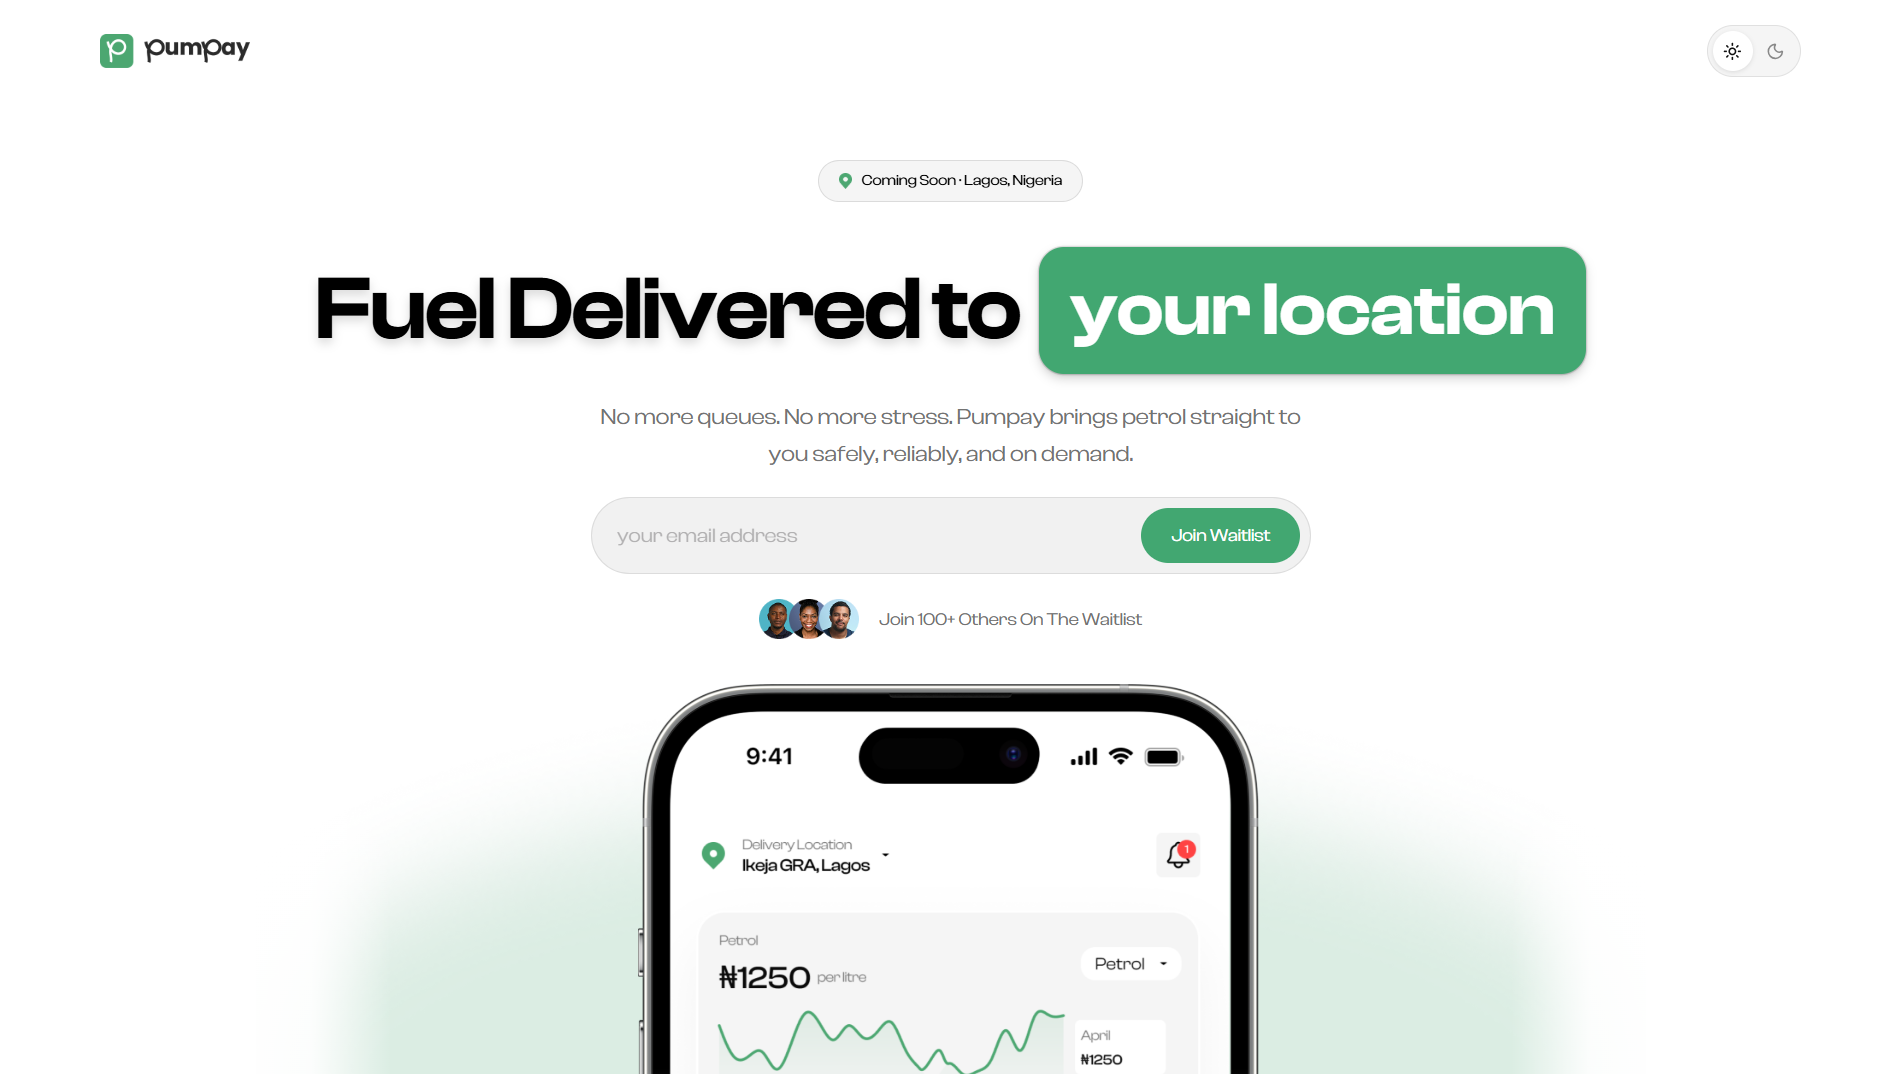
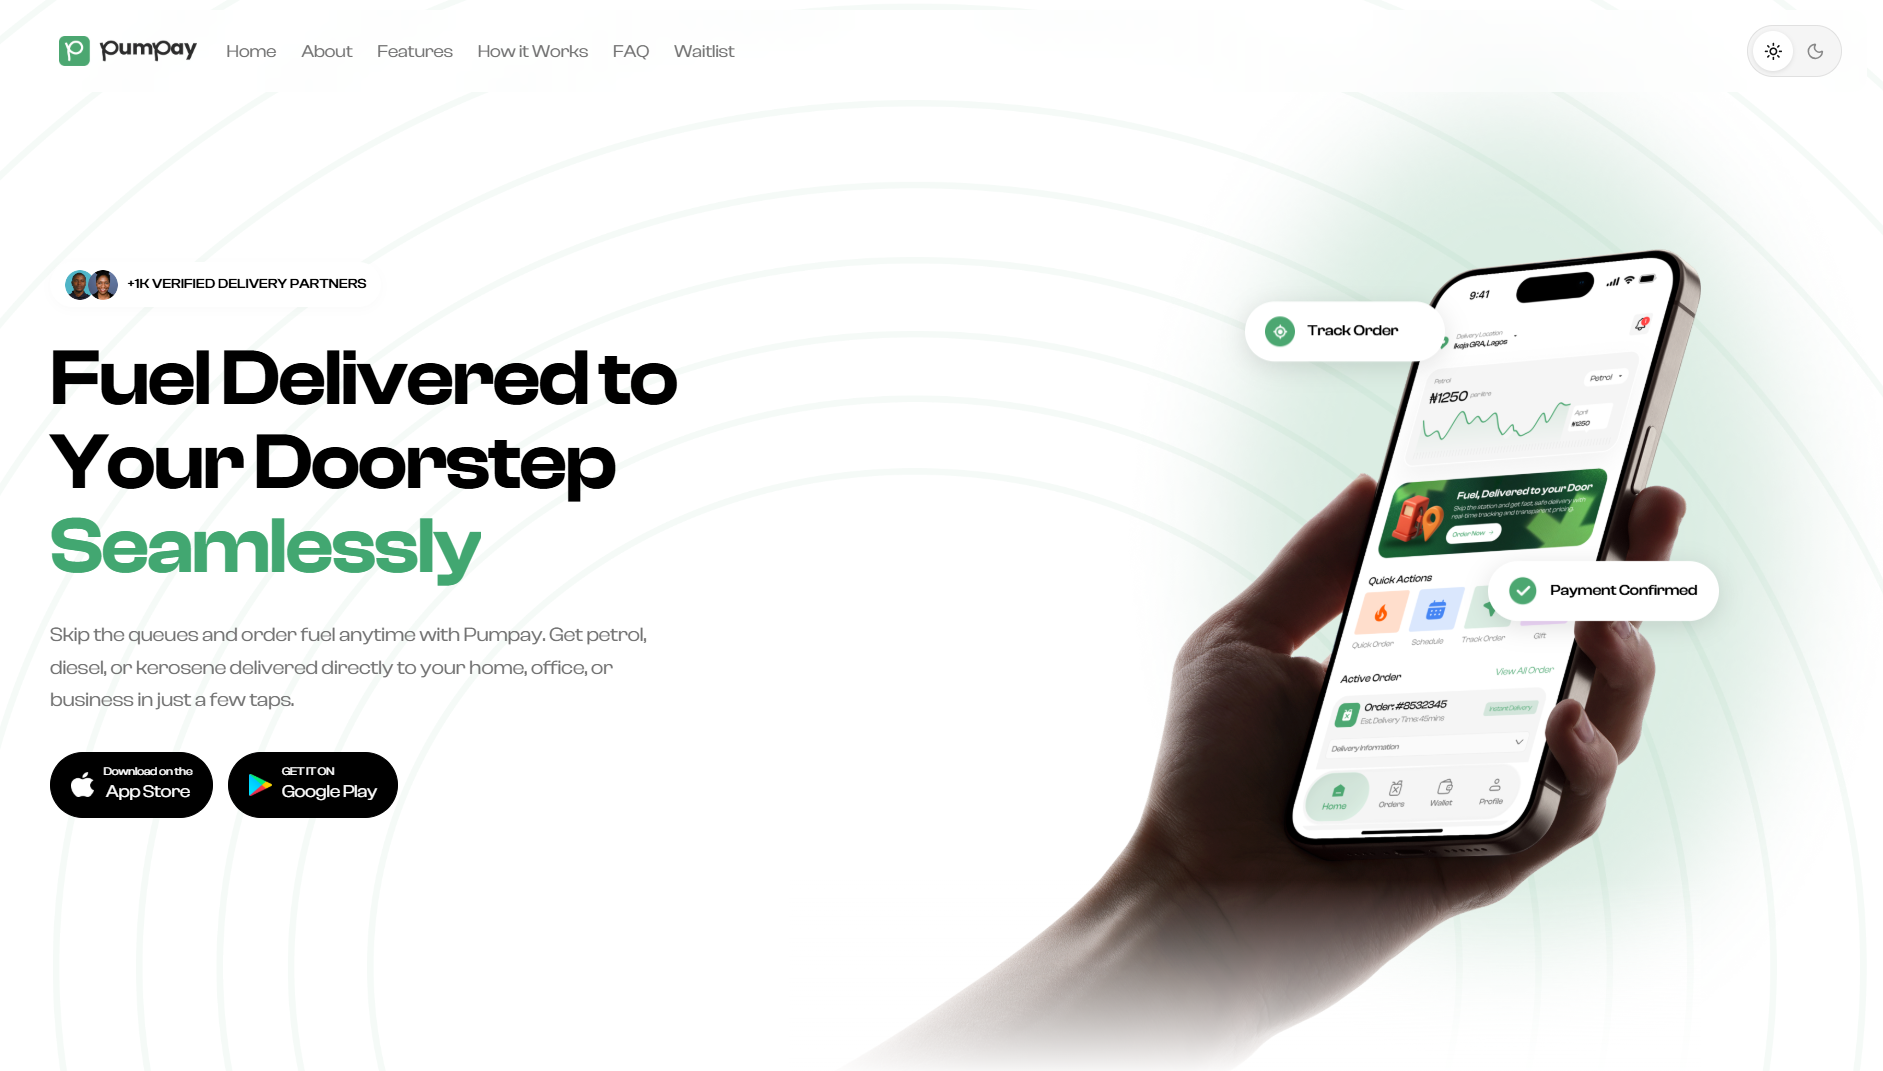
fix: made ui adjustments to the about section and navbar

diff --git a/src/pages/About.jsx b/src/pages/About.jsx
@@ -43,23 +43,23 @@ const About = () => {
             className="px-6 lg:px-24 lg:mt-[-90vh] mt-[-95vh]"
           >
             <h1 className="text-[5rem] text-white font-light md:text-8xl mt-10 md:mt-20 lg:mt-10 lg:text-[10rem] Birthstone">
-              About
+              About me!
             </h1>
           </motion.header>
 
           {/* Content */}
-          <div className="grid grid-cols-1 lg:grid-cols-2 gap-10 px-6 lg:px-24">
+          <div className="grid grid-cols-1 lg:grid-cols-2 items-center gap-10 px-6 lg:px-24">
             {/* Text */}
             <aside className="lg:py-10">
               <div className="flex flex-col gap-6 text-sm md:text-base lg:text-md leading-6 lg:leading-[25px] text-stone-800">
-                <p className="text-justify text-white/30 lg:text-[1.2rem] flex flex-col gap-1">
+                <p className="lg:text-justify text-white/50 lg:text-[1rem] leading-relaxed flex flex-col gap-1">
                   <motion.span
                     variants={fadeInUp}
                     initial="hidden"
                     whileInView="visible"
                     viewport={{ once: true, amount: 0.2, delay: 0.3 }}
                   >
-                    As a passionate Frontend Web Developer with 3 years of
+                    As a passionate Frontend Web Developer with 4+ years of
                     experience, I specialize in transforming complex ideas into
                     seamless, user-centric web experiences. My expertise spans
                     technologies like{" "}
@@ -133,7 +133,7 @@ const About = () => {
             >
               <img
                 src={image}
-                className="lg:w-full lg:max-w-md h-auto rounded-lg"
+                className="lg:w-full lg:max-w-md h-auto rounded-xl"
                 alt="Profile"
               />
             </motion.aside>

diff --git a/src/components/ui/flip-words-demo.jsx b/src/components/ui/flip-words-demo.jsx
@@ -47,9 +47,9 @@ export function FlipWordsDemo() {
       {/* Heading */}
       <motion.div
         variants={itemVariants}
-        className="lg:text-8xl text-center text-5xl text-neutral-500 lg:text-left text-center lg:px-56 font-light"
+        className="lg:text-8xl text-5xl text-neutral-500 lg:text-center text-center lg:px-56 font-light"
       >
-        Build <FlipWords words={words} /> websites and mobile apps with <br />
+        Build <FlipWords words={words} /> websites <br /> and mobile apps with <br />
         <span className="text-neutral-500 font-light">Kije Williams</span>
       </motion.div>
 
@@ -58,7 +58,7 @@ export function FlipWordsDemo() {
         variants={itemVariants}
         className="text-base lg:text-xl lg:leading-8 text-neutral-600 font-light py-8 max-w-3xl mx-auto text-center font-poppins"
       >
-        A Certified <strong>Altschool Africa</strong> Frontend Developer
+        A Certified <span className="text-white/80">Altschool Africa</span> Frontend Developer
         dedicated to creating visually stunning and user-friendly web and mobile
         applications.
       </motion.p>

diff --git a/src/components/NavbarMenu.jsx b/src/components/NavbarMenu.jsx
@@ -38,7 +38,7 @@ const NavbarMenu = () => {
 
   return (
     <div className="fixed top-0 left-0 right-0 z-50 px-4 lg:px-0">
-      <div className="mx-auto mt-4 max-w-7xl px-6 py-6 flex items-center justify-between rounded-full bg-black/20 backdrop-blur-[2px] border border-white/15 shadow-lg shadow-black/20 lg:shadow-black/0">
+      <div className="mx-auto mt-4 max-w-7xl px-6 py-6 flex items-center justify-between rounded-full bg-black/20 backdrop-blur-[2px]">
         <Logo />
 
         {/* Desktop Menu */}
